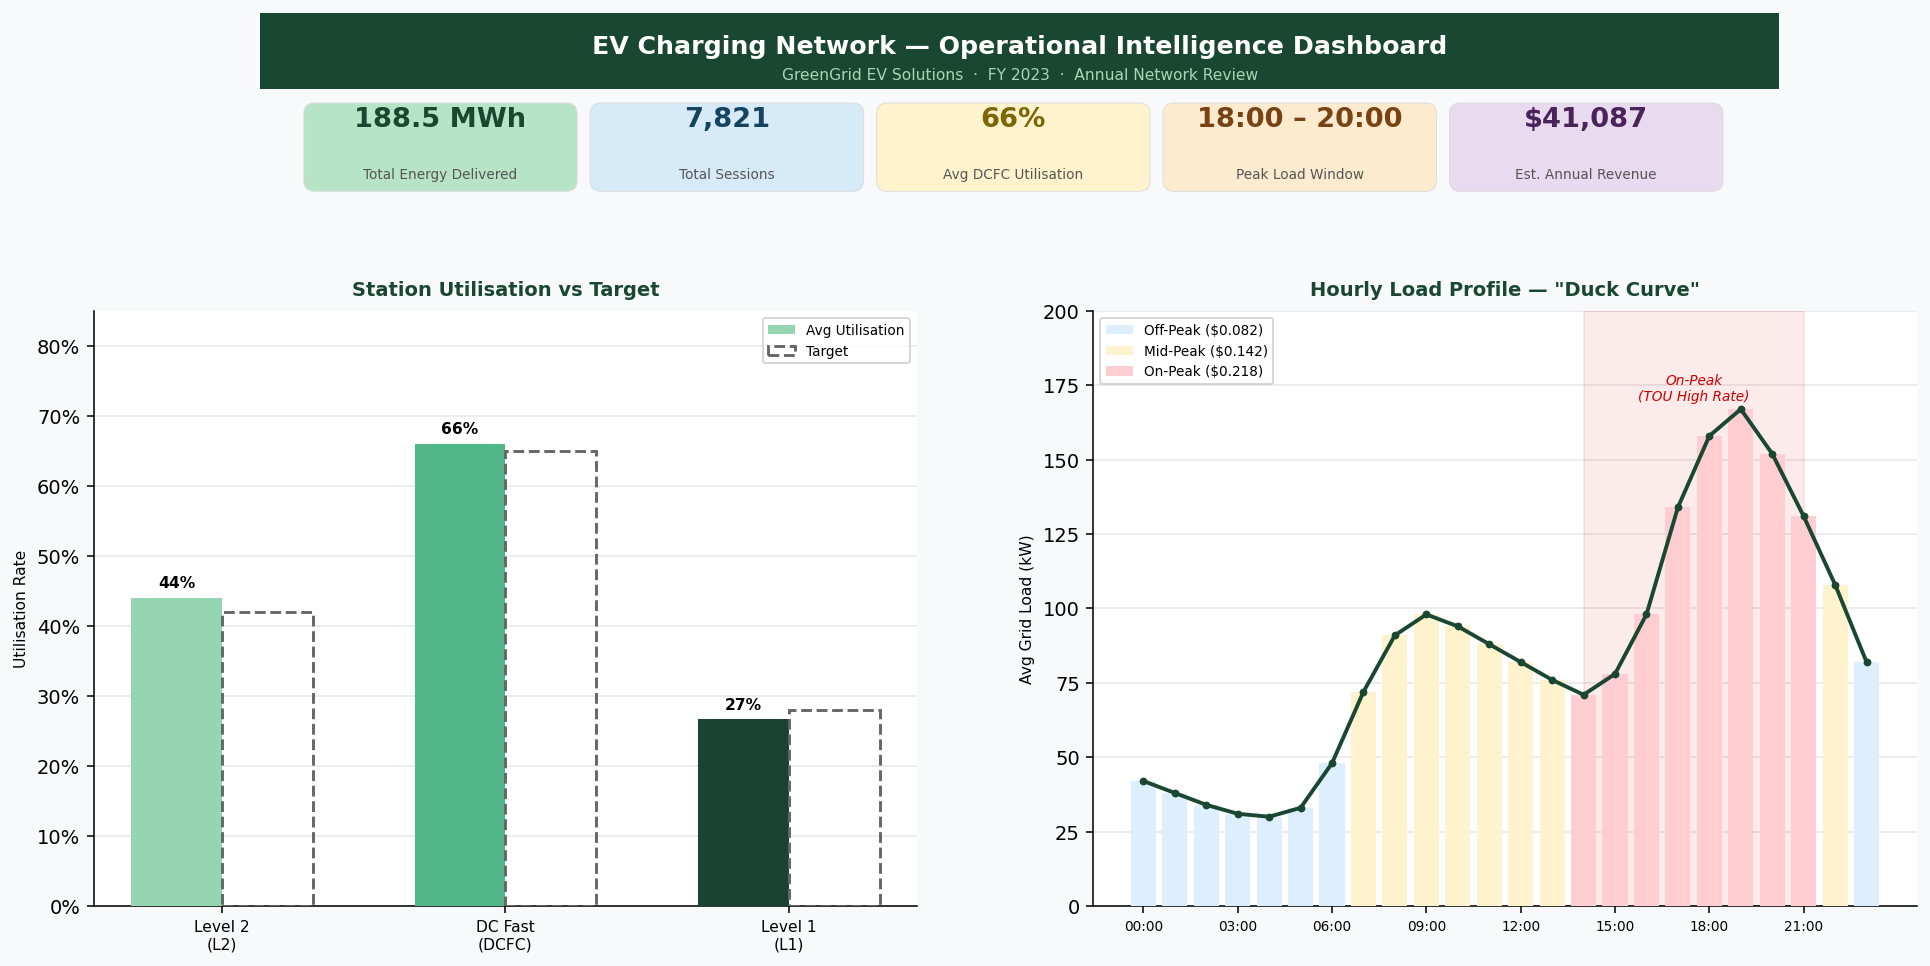
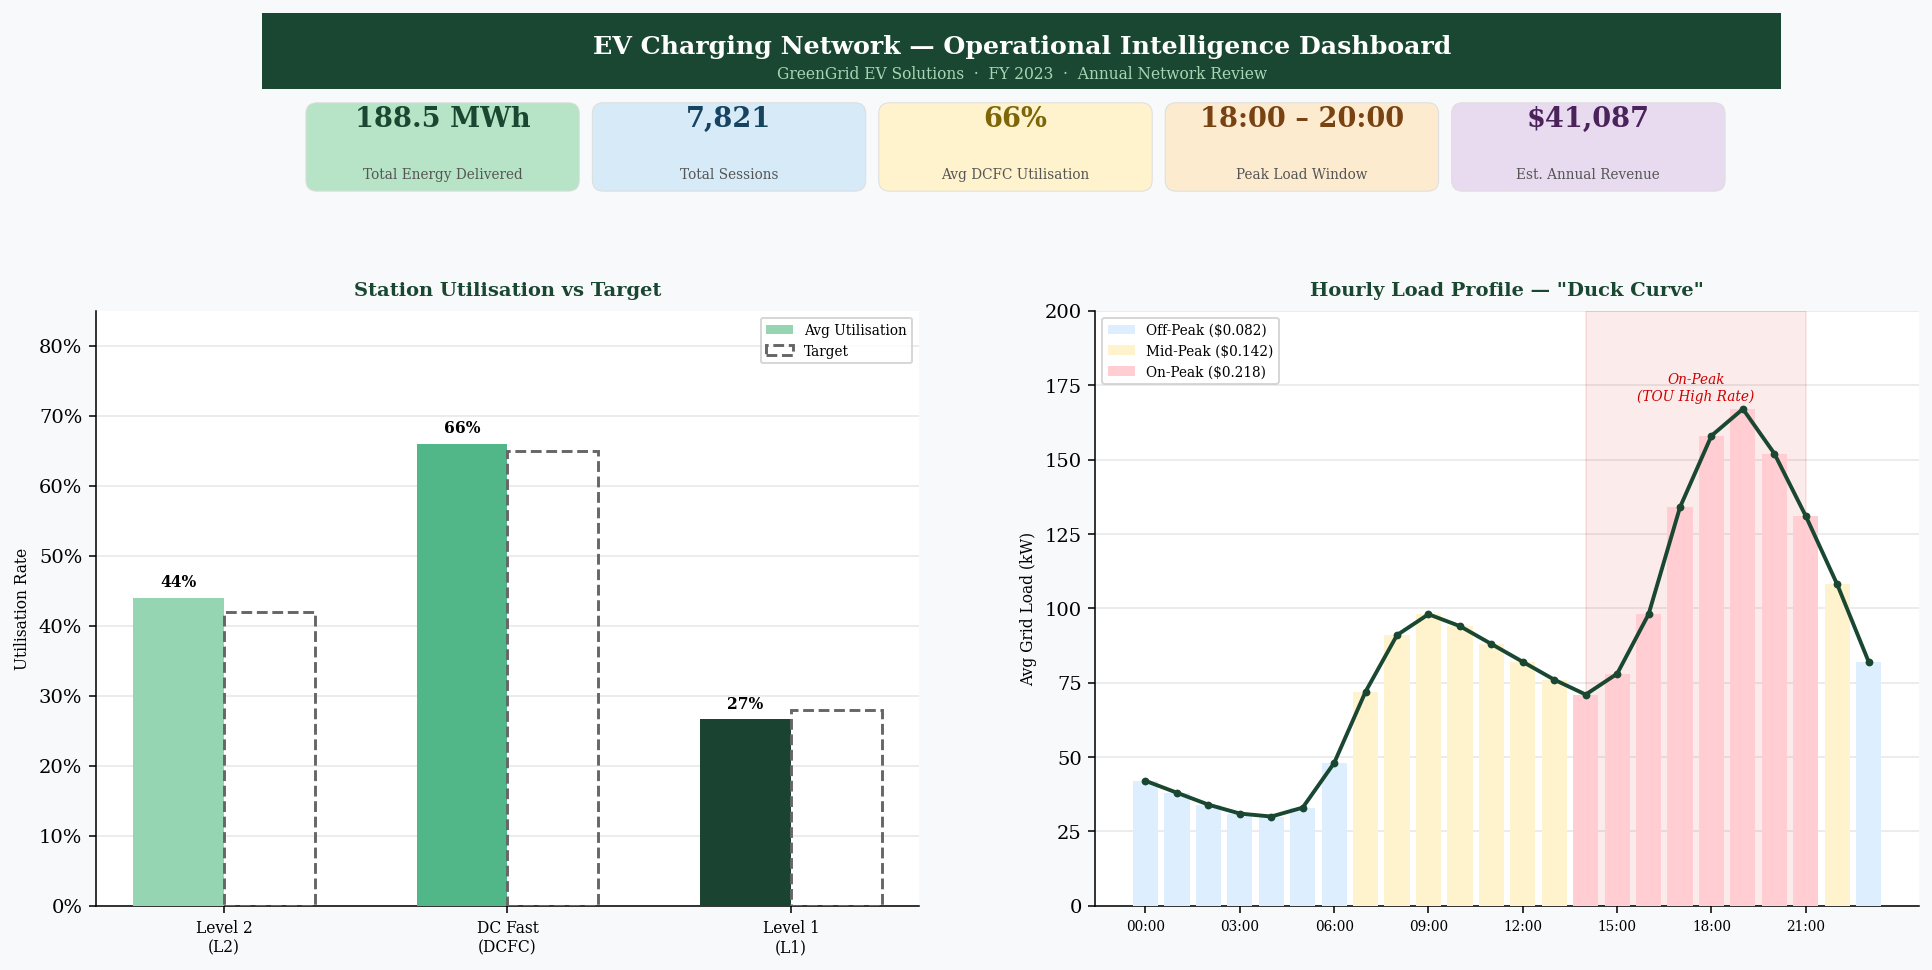
Switch dashboard and rawdata PNGs to serif font

diff --git a/scripts/build_ev_report.py b/scripts/build_ev_report.py
@@ -470,6 +470,10 @@ import numpy as np
 W, H = 14, 8.5
 DPI = 140
 
+import matplotlib
+matplotlib.rcParams['font.family'] = 'serif'
+matplotlib.rcParams['font.serif'] = ['DejaVu Serif', 'Georgia', 'Times New Roman', 'serif']
+
 def fig(facecolor='#FFFFFF'):
     f, ax = plt.subplots(figsize=(W, H), facecolor=facecolor)
     ax.set_xlim(0, W)
